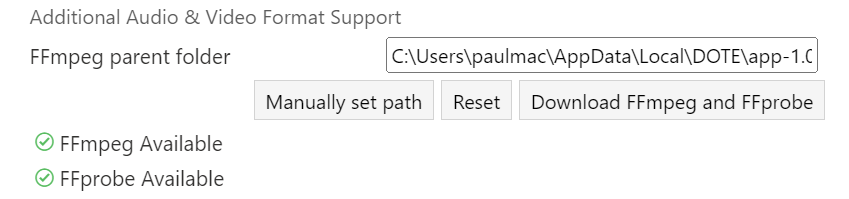
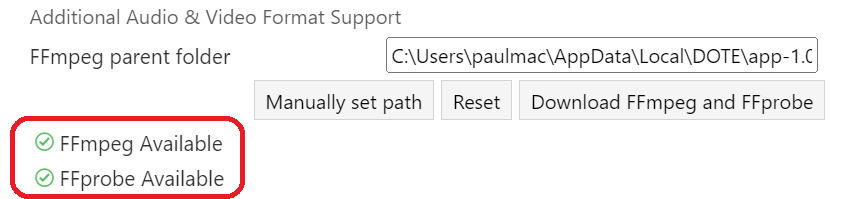
Edit and add images to Install

Changed region(s): [[0.0, 0.5729, 0.3062, 1.0]]

diff --git a/install.md b/install.md
@@ -17,6 +17,10 @@ Note that only one instance of _DOTE_ is allowed to run at the same time.
         - The _DOTE_ icon should also appear on your desktop.
         In future, just `double click` the icon and _DOTE_ will start.
 
+[![Windows warning](images/install/Win-defender.png)](images/install/Win-defender.png | width=100)
+
+[![Windows run anyway](images/install/Win-defender-run.png)](images/install/Win-defender-run.png | width=100)
+
     - **macOS**
         - For macOS, double click on the _DOTE_ icon (`DMG`).
         - Drag and drop the unpacked `DOTE` app into your `Applications` folder and `double click` to run.
@@ -24,9 +28,18 @@ Note that only one instance of _DOTE_ is allowed to run at the same time.
         - In that case, open `System Preferences`, select `Security & Privacy`, select `General` tab, and select and approve `Allow apps downloaded from`/`App Store and identified developers`.
         You may need to _unlock_ your settings to make these changes.
 
+[![macOS install](images/install/dmg.png)](images/install/dmg.png | width=100)
+
 ### Installation problems <a id='problems'></a>
 
-If the installation fails, then you may need to get permission from your IT support to allow installation of the _DOTE_ software.
+On Windows, the installation may fail because Windows Defender does not recognise the software.
+You can set Defender to allow DOTE to run on your computer.
+
+You may have an Anti-virus/malware programme installed.
+It may not recognise _DOTE_ and warn you about installing/running the software on your computer.
+Just set the Anti-virus software to trust _DOTE_.
+
+If the installation fails because you do not have administrator rights, then you may need to get permission from your IT support to allow installation of the _DOTE_ software.
 
 - For example, you may not have permission in Windows (Group Policy) to install unknown or unapproved software.
 This is a local problem with how your computer has been setup by a security conscious IT support.
@@ -53,6 +66,10 @@ Alternatively, you can let _DOTE_ install the free, open source _FFmpeg_ on your
 4. The files will be downloaded and installed.
 5. The "Not found" indicators should change to "Available".
 6. Try restarting _DOTE_ if something looks amiss.
+
+[![Transcript Options](images/settings/ffmpeg-missing.png)](images/settings/ffmpeg-missing.png | width=200)
+
+[![Transcript Options](images/settings/ffmpeg-installed.png)](images/settings/ffmpeg-installed.png | width=200)
 
 NOTE: If you reinstall _DOTE_ or update to a newer version, then you will have to repeat this procedure to reinstall FFmpeg.
 
@@ -88,3 +105,5 @@ Finally, you may not have access rights to the standard folder for installation 
 
 - To update _DOTE_ on both operating systems, just close _DOTE_, download the update and follow the same procedure above.
 _DOTE_ will be updated and restart automatically.
+
+_DOTE_ will remind you if there is a new release available online.
